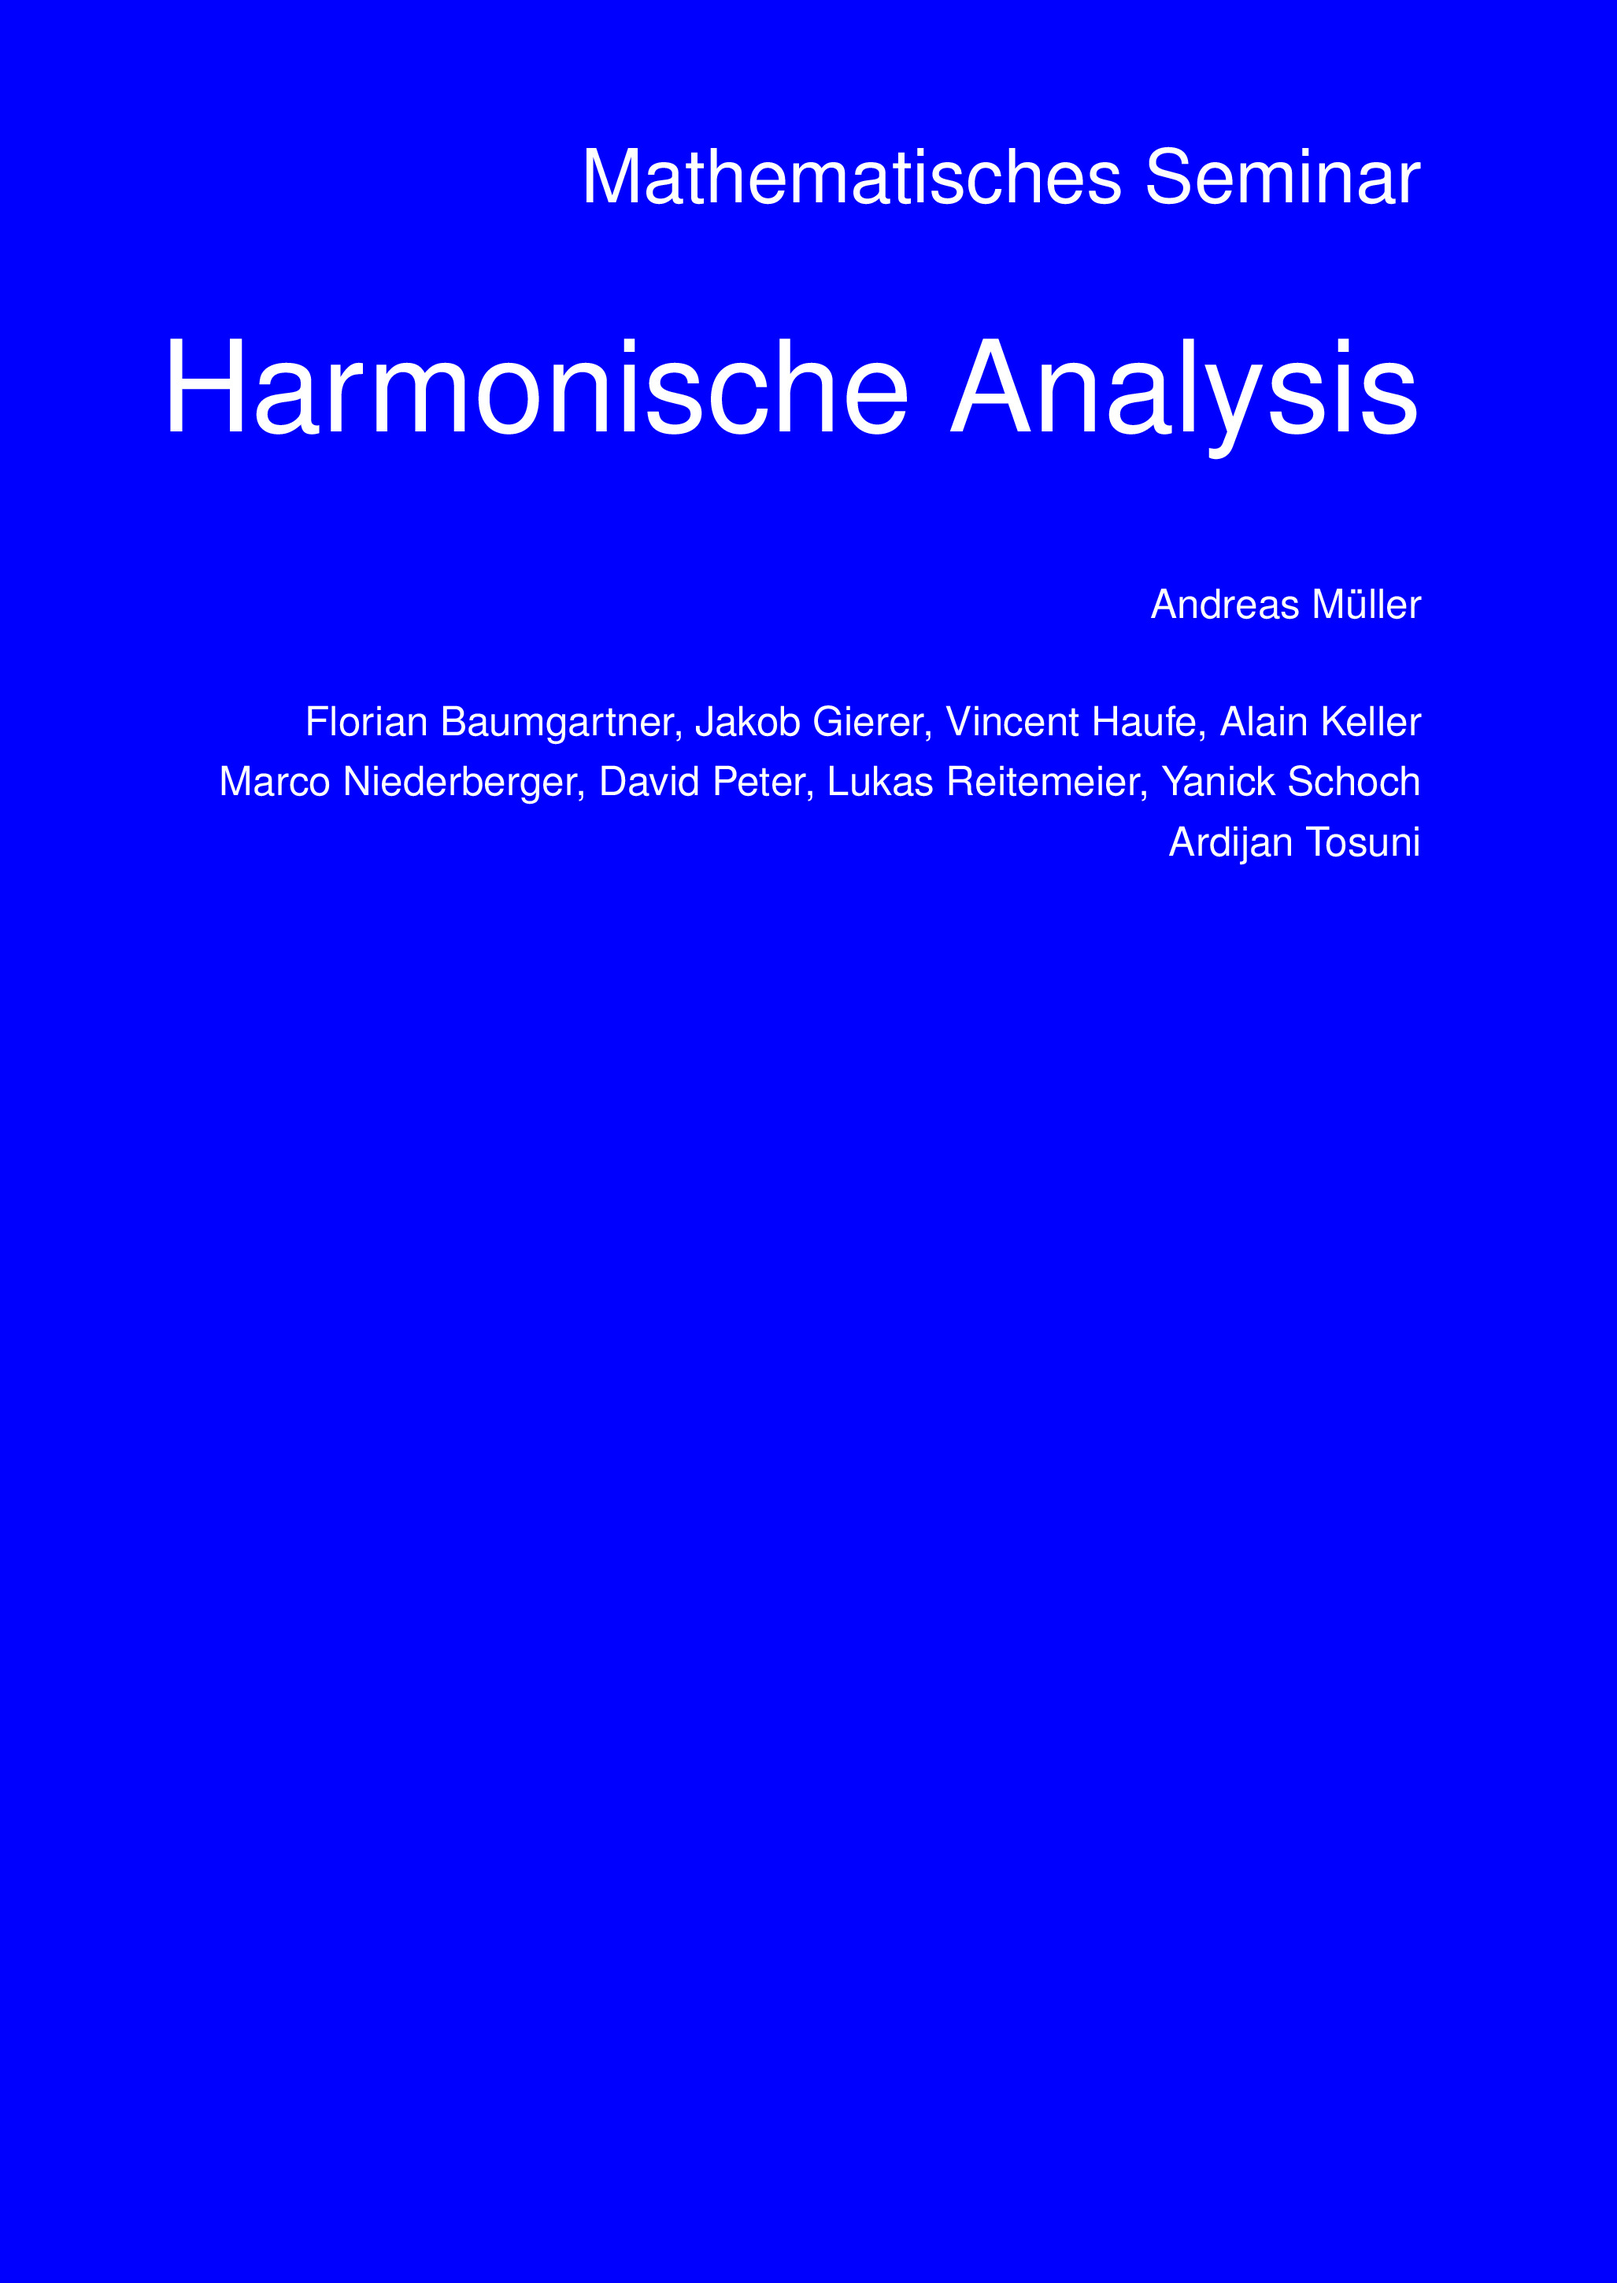
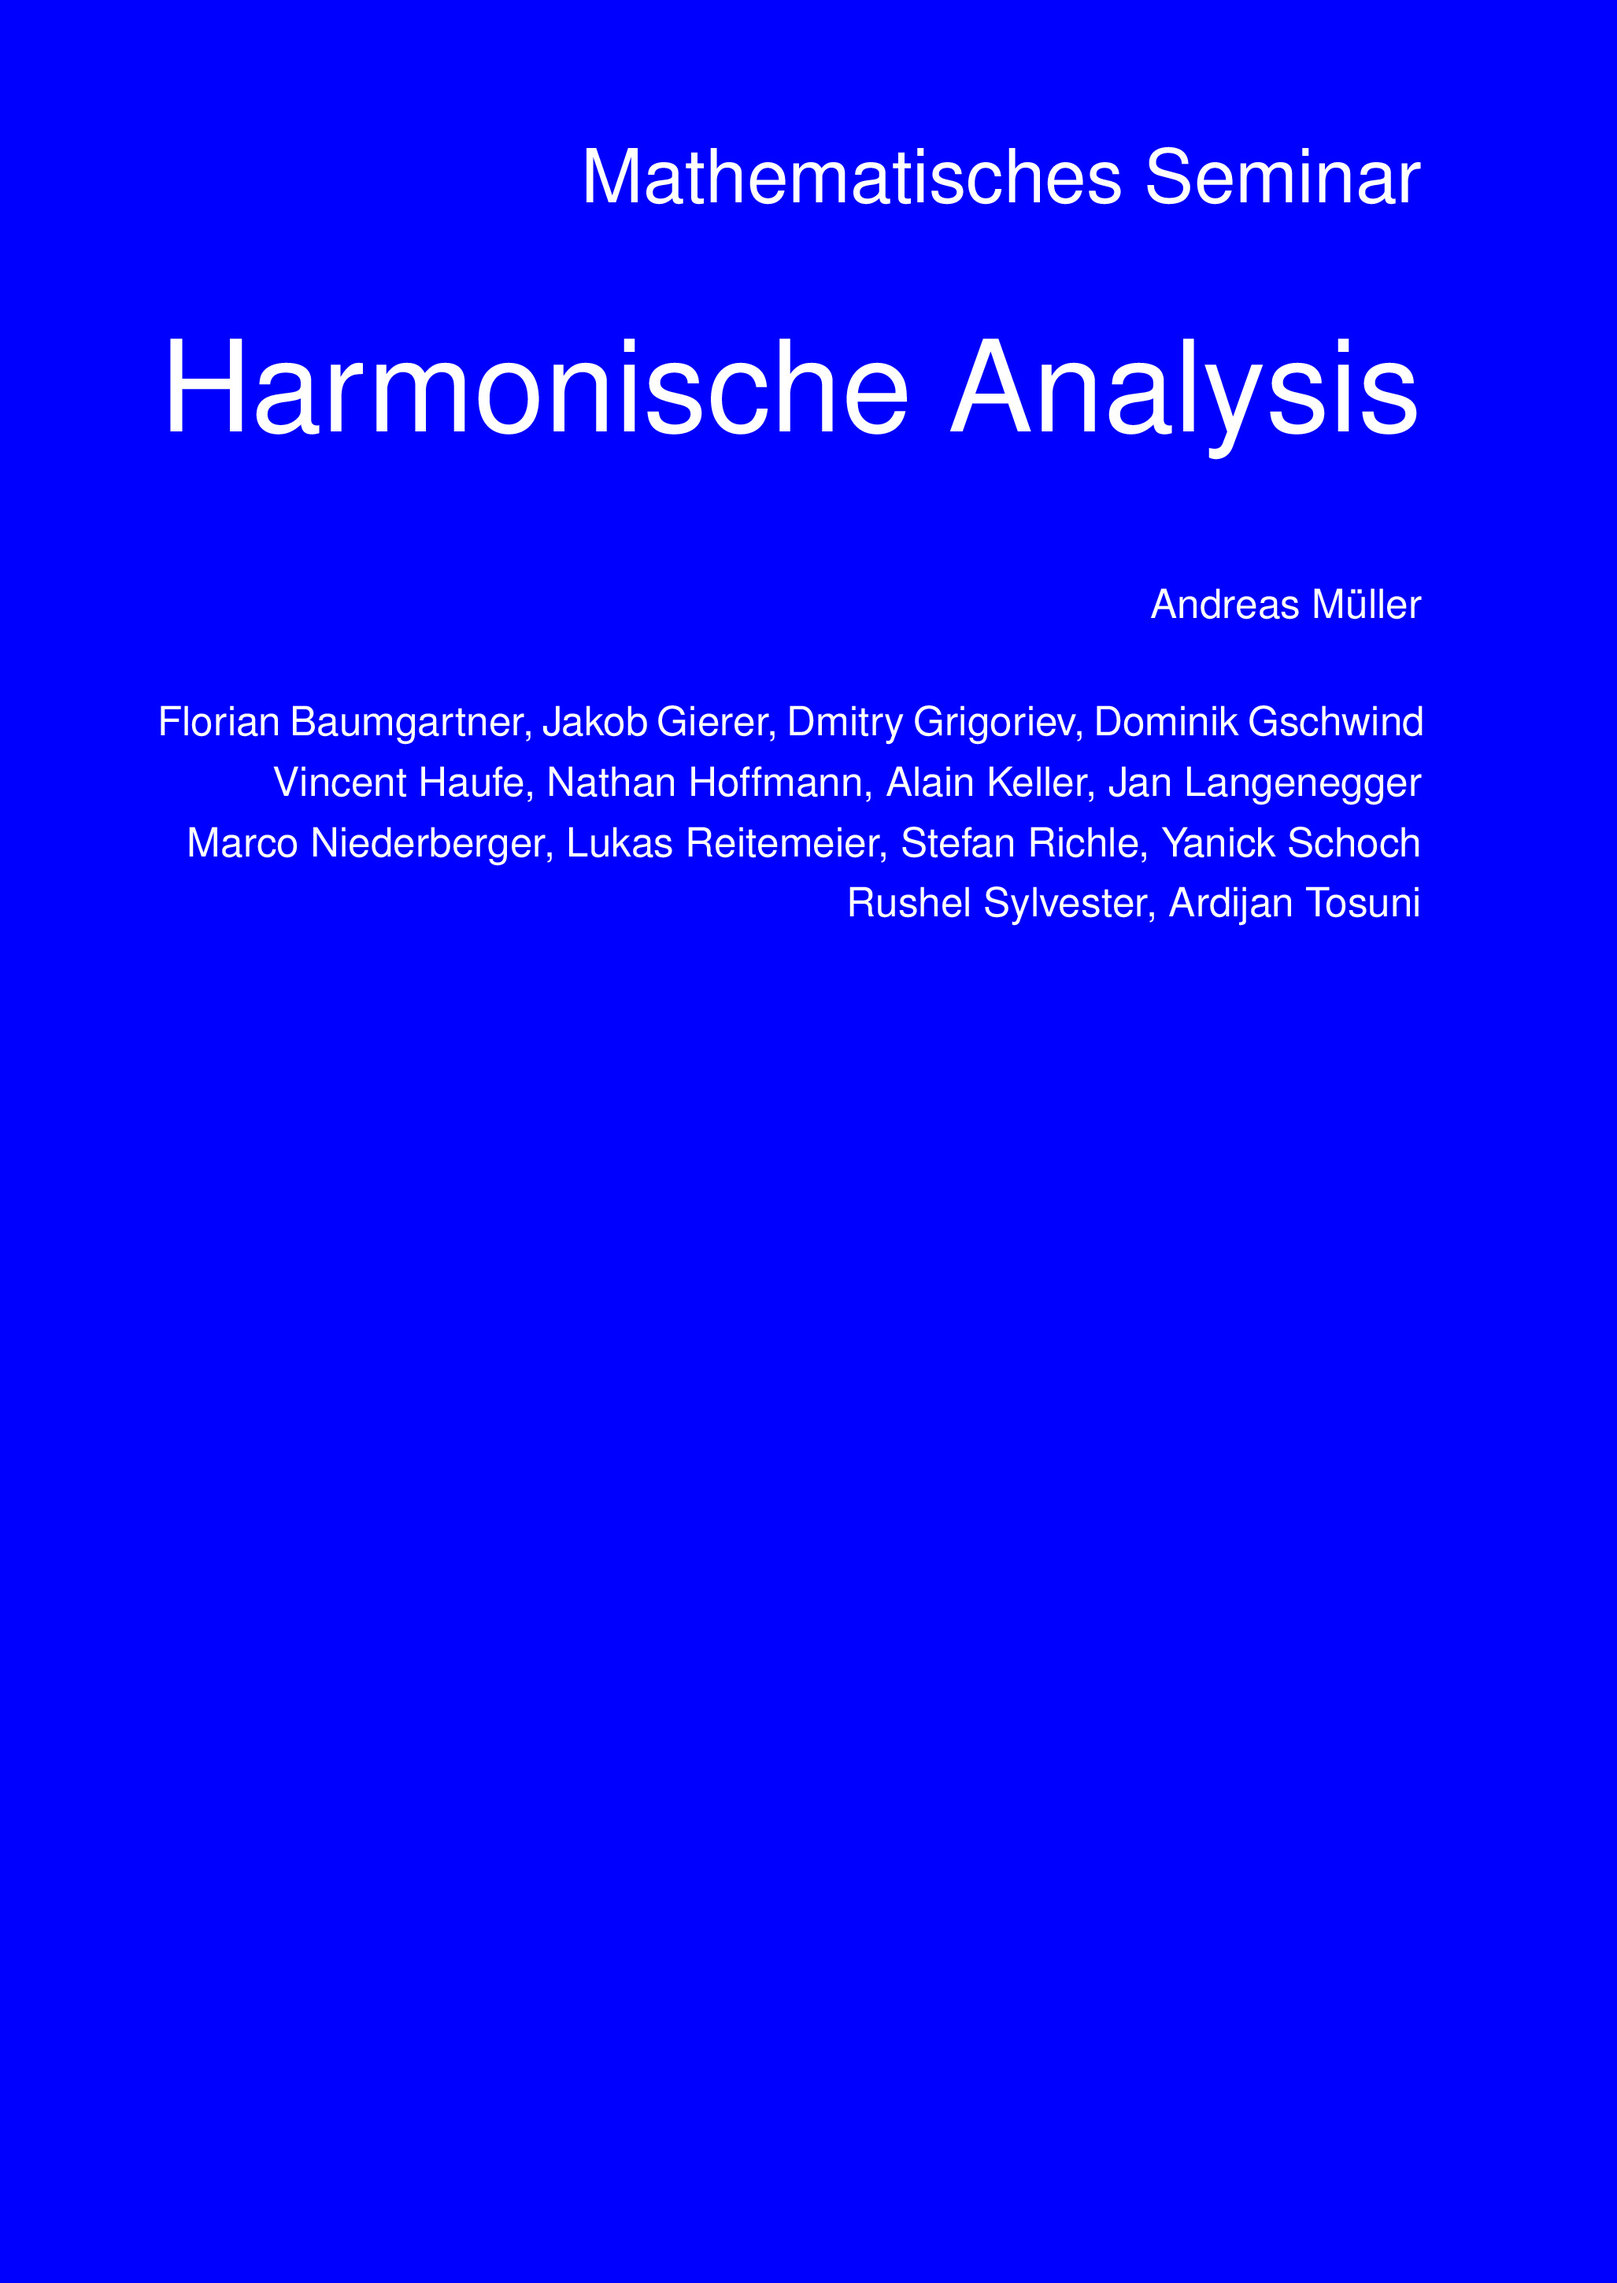
Teilnehmerliste aktualisiert

Changed region(s): [[0.0935, 0.3103, 0.8724, 0.4034]]

diff --git a/cover/buchcover.tex b/cover/buchcover.tex
@@ -77,35 +77,36 @@
 	\sf \fontsize{13}{5}\selectfont
 	Florian Baumgartner,	% MSE
 	Jakob Gierer,		% E
-	Vincent Haufe,		% E
-	Alain Keller%		% MSE
+	Dmitry Grigoriev,	% MSE
+	Dominik Gschwind%	% E
 	}};
 
 \node at ({\einschlag+2*\gelenk+\ruecken+1.5*\breite},17.75)
 	[color=white,scale=1]
 	{\hbox to\hsize{\hfill%
 	\sf \fontsize{13}{5}\selectfont
-	Marco Niederberger,	% E
-	David Peter,		% E
-	Lukas Reitemeier,	% MSE
-	Yanick Schoch%		% E
+	Vincent Haufe,		% E
+	Nathan Hoffmann,	% E
+	Alain Keller,		% MSE
+	Jan Langenegger%	% B
 	}};
 
 \node at ({\einschlag+2*\gelenk+\ruecken+1.5*\breite},17.1)
 	[color=white,scale=1]
 	{\hbox to\hsize{\hfill%
 	\sf \fontsize{13}{5}\selectfont
-	Ardijan Tosuni%		% M|I
+	Marco Niederberger,	% E
+	Lukas Reitemeier,	% MSE
+	Stefan Richle,		% MSE
+	Yanick Schoch%		% E
 	}};
  
 \node at ({\einschlag+2*\gelenk+\ruecken+1.5*\breite},16.45)
 	[color=white,scale=1]
 	{\hbox to\hsize{\hfill%
 	\sf \fontsize{13}{5}\selectfont
-%	Patrik Müller,                % MSE
-%	Samuel Niederer,		% MSE
-%	Naoki Pross,                    % E
-%	Thierry Schwaller%,              % E
+	Rushel Sylvester,	% I
+	Ardijan Tosuni%		% M|I
 	}};
 
 \node at ({\einschlag+2*\gelenk+\ruecken+1.5*\breite},15.8)

diff --git a/buch/common/teilnehmer.tex b/buch/common/teilnehmer.tex
@@ -5,12 +5,18 @@
 %
 Florian Baumgartner,	% MSE
 Jakob Gierer,		% E
+Dmitry Grigoriev	% MSE
+\\
+Dominik Gschwind,	% E
 Vincent Haufe,		% E
+Nathan Hoffmann,	% E
 Alain Keller		% MSE
 \\
+Jan Langenegger,	% B
 Marco Niederberger,	% E
-David Peter,		% E
-Lukas Reitemeier,	% MSE
-Yanick Schoch		% E
+Lukas Reitemeier	% MSE
 \\
+Stefan Richle,		% MSE
+Yanick Schoch,		% E
+Rushel Silvester,	% I
 Ardijan Tosuni		% M|I
